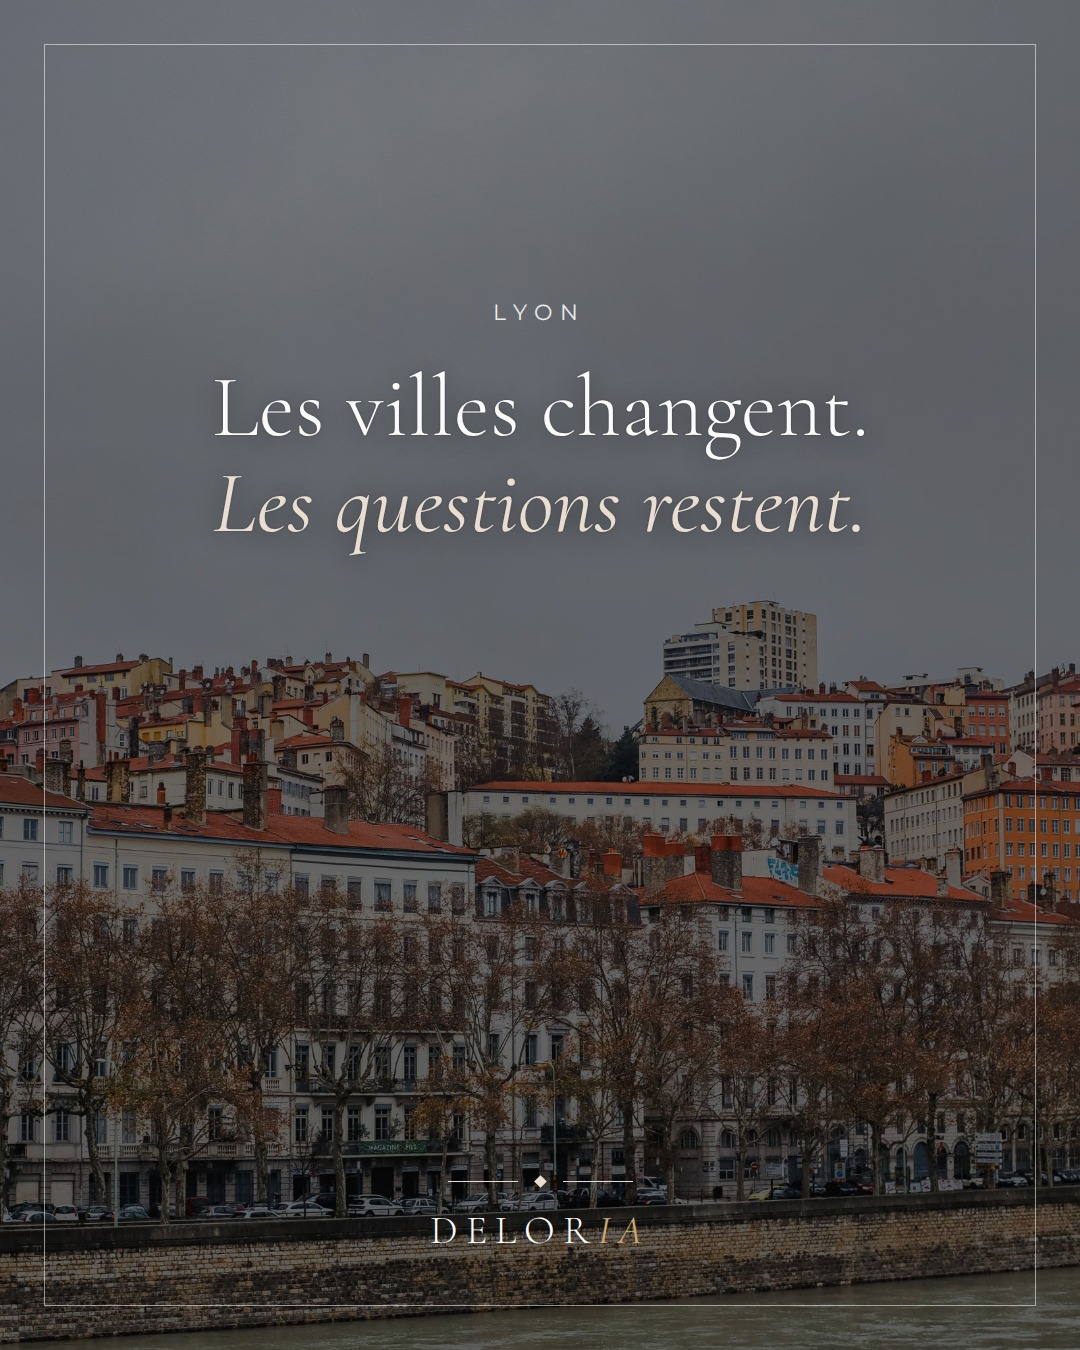
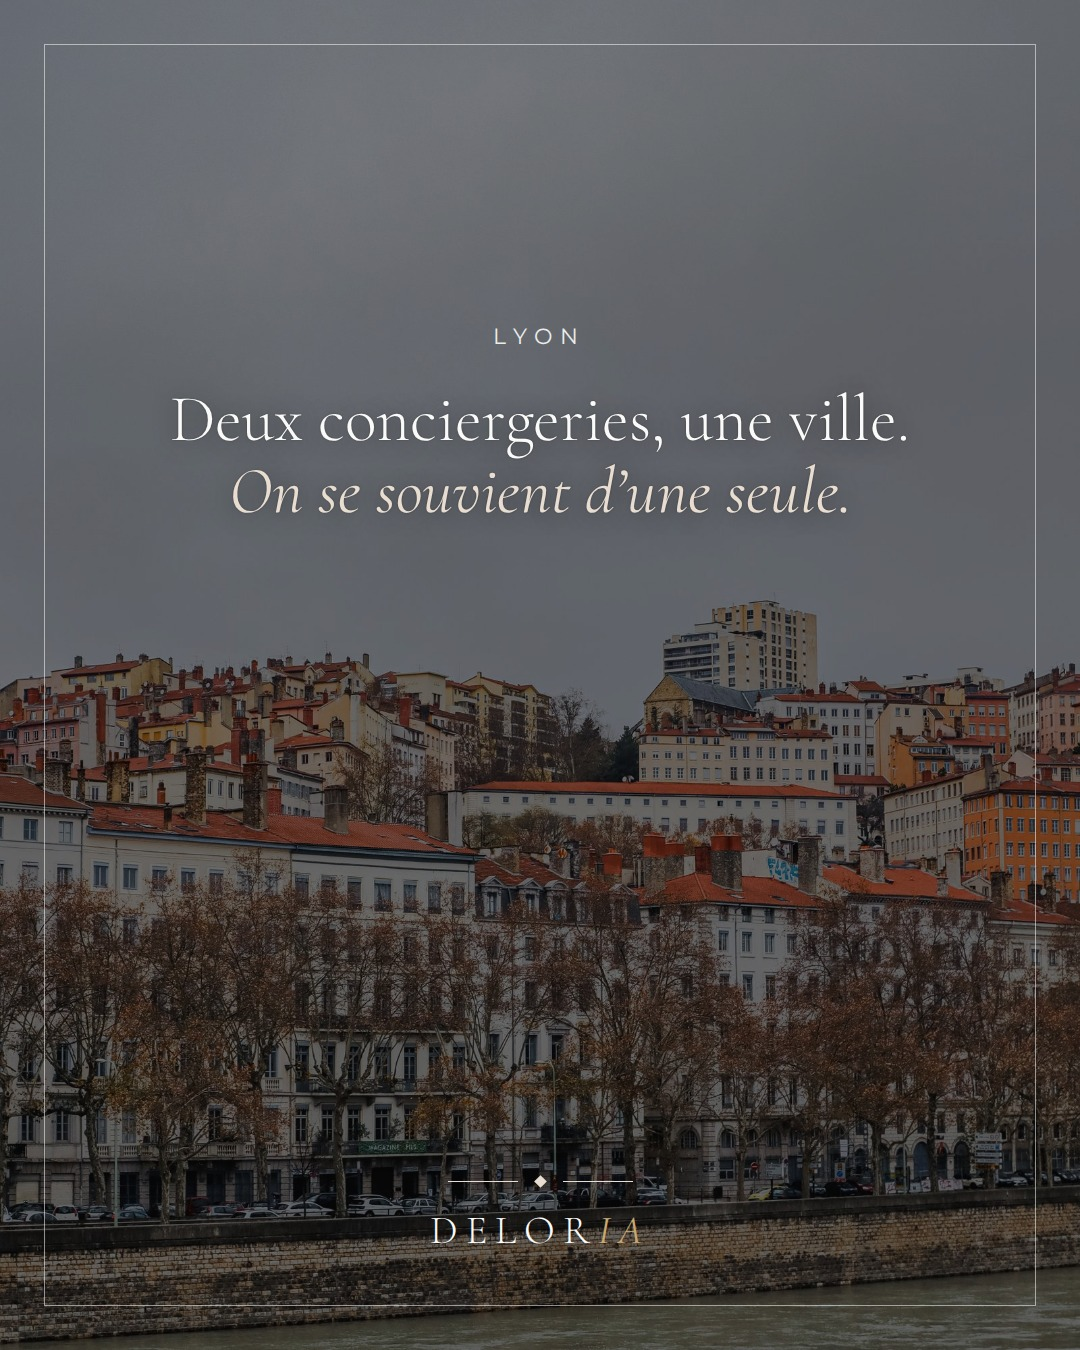
Fonds photo sur les gabarits unis, lot réécrit du 30/09 au 11/10
Claude-Session: https://claude.ai/code/session_01TujLWYW2PjtmBaj8Xy85aC

Changed region(s): [[0.1833, 0.28, 0.825, 0.4044], [0.4583, 0.2178, 0.55, 0.2489]]

diff --git a/calendrier/contenu.py b/calendrier/contenu.py
@@ -27,23 +27,25 @@ Ici, je partage ce que j'apprends sur le terrain : ce qui marche, ce qui casse, 
 
 {H_CONC} #etretat {H_NORM}"""),
 
-    dict(template="constat", label="Le quotidien d'une conciergerie",
-         texte="Un voyageur écrit à 22h43 pour savoir où se garer.\nQuelqu'un répond forcément.", chute="Aujourd'hui, c'est vous.",
-         legende=f"""Un voyageur qui cherche où se garer n'attend pas le lendemain. Il écrit maintenant, et il attend une réponse maintenant.
+    dict(template="constat", photo_fichier="astuce-rue#2", label="Le quotidien d'une conciergerie",
+         texte="22h43.\n« Je me gare où ? »", chute="Quelqu'un répond toujours.\nAujourd'hui, c'est vous.",
+         legende=f"""Le voyageur n'attend pas le lendemain. Il écrit maintenant, et il attend une réponse maintenant.
 
-Dans beaucoup de conciergeries, cette réponse part du téléphone personnel du gérant, entre deux autres choses. C'est ce quotidien que je veux alléger.
+Dans beaucoup de conciergeries, cette réponse part du téléphone personnel du gérant, en plein dîner.
+
+Ce n'est pas un problème d'organisation. C'est un problème de disponibilité. Et la disponibilité, ça se délègue.
 
 {H_CONC}"""),
 
     dict(template="terrain_photo", photo="details-telephone", cadrage="center 85%", label="Note de terrain",
-         titre="Airbnb refuse tout message qui contient *un lien.*",
-         texte="Un nom de site, une adresse e-mail, un numéro de téléphone : le message entier est bloqué. Le voyageur ne reçoit rien.",
-         chute="Ce qui répond à vos voyageurs doit le savoir.",
-         legende=f"""Airbnb bloque les messages qui contiennent une coordonnée, pour éviter qu'on sorte de la plateforme. Ce n'est pas seulement le lien qui saute : c'est tout le message.
+         titre="Un lien dans un message,\n*et Airbnb bloque tout.*",
+         texte="Un site, une adresse e-mail, un numéro : le message entier ne part pas. Un outil automatique n'en sait rien.",
+         chute="Le voyageur attend une réponse qui n'arrivera jamais.",
+         legende=f"""Je l'ai appris en conditions réelles. Une bonne réponse sur les pharmacies de garde, avec le nom d'un site. Airbnb a refusé le message entier. Le voyageur n'a rien reçu.
 
-Quand vous écrivez vous-même, l'application vous prévient. Un outil automatique, lui, peut ne jamais le savoir.
+Quand vous écrivez vous-même, l'application vous prévient. Un outil automatique, non.
 
-C'est pour ça que l'assistant que je configure n'écrit aucune coordonnée. Pour une adresse précise, il vous passe la main.
+Depuis, l'assistant que je configure n'écrit aucune coordonnée. Pour une adresse précise, il vous passe la main.
 
 {H_CONC}"""),
 
@@ -745,15 +747,17 @@ ASTUCE = "Astuce d'accueil"
 WEEKEND = [
     # 10 et 11 octobre
     dict(template="carte", photo_fichier="astuce-lampe#1", label=ASTUCE,
-         titre="Une lampe allumée *pour une arrivée de nuit.*",
-         texte="Un voyageur qui arrive tard cherche l'interrupteur dans le noir. Une lampe laissée allumée change la première impression.",
-         legende=f"""Nouvelle série du samedi : une astuce d'accueil simple, applicable dès ce week-end.
+         titre="Arrivée à 23h.\n*Où est l'interrupteur ?*",
+         texte="Laissez une lampe allumée pour les arrivées tardives. Ça ne coûte rien. Ça change la première minute.",
+         legende=f"""Nouvelle série du samedi : une astuce d'accueil par semaine, applicable dès ce week-end.
 
-La première minute dans un logement compte énormément. Arriver de nuit dans une pièce éclairée, c'est se sentir attendu.
+Arriver de nuit dans un logement inconnu, c'est chercher l'interrupteur à tâtons, les valises à la main. Arriver dans une pièce éclairée, c'est se sentir attendu.
 
 {H_ACC}"""),
-    dict(template="plein", photo="interieur-lit", phrase="Dimanche.\n*Le téléphone peut dormir aussi.*",
-         legende=f"""Bon dimanche à toutes les conciergeries.
+    dict(template="plein", photo="interieur-lit", voile=0.55, phrase="Dimanche.\n*Qui répond à vos voyageurs ?*",
+         legende=f"""Si la réponse est vous, ce n'est pas vraiment un dimanche.
+
+Bon dimanche à toutes les conciergeries.
 
 {H_CONC}"""),
 
@@ -1293,43 +1297,50 @@ Le test le plus simple : le réduire à la taille d'un ongle et voir ce qu'il en
 # Semaine d'ouverture, avant le lundi 5 octobre. Photos imposées, jamais utilisées ailleurs,
 # gabarits sans numérotation de série : le reste du calendrier n'est pas modifié.
 AVANT_PREMIERE = {
-    "2026-09-30": dict(template="constat", label="Identité visuelle",
-         texte="Un logo flou.\nTrois polices.\nDes couleurs qui changent\nd'un support à l'autre.",
-         chute="Vos clients le remarquent avant vous.",
-         legende=f"""Une identité visuelle cohérente ne se remarque pas. Une identité incohérente, si.
+    "2026-09-30": dict(template="constat", photo_fichier="secteur-artisan#6", label="Identité visuelle",
+         texte="Tout a changé\ndepuis vos débuts.", chute="Sauf votre logo.",
+         legende=f"""Vos clients, vos outils, votre niveau : tout a progressé. Le logo, lui, date souvent de la première semaine.
 
-Un logo net, deux typographies, quelques couleurs, et les mêmes règles partout : site, réseaux, devis, carte de visite. C'est ce qu'on appelle une charte graphique, et c'est souvent le premier chantier avant un site.
+Personne ne vous en parlera. Un client qui ne vous connaît pas encore compare quelques secondes, puis choisit.
+
+Une charte graphique, c'est la même image partout. La bonne.
 
 {CONTACT}
 
 {H_DESIGN}"""),
 
     "2026-10-02": dict(template="plein", photo_fichier="region-lyon#3", lieu="Lyon", decalage=-250,
-         phrase="Les villes changent.\n*Les questions restent.*",
-         legende=f"""Lyon, Biarritz, Annecy ou la côte normande : d'une conciergerie à l'autre, les voyageurs posent les mêmes questions. L'arrivée, le stationnement, le wifi, les commerces autour.
+         phrase="Deux conciergeries, une ville.\n*On se souvient d'une seule.*",
+         legende=f"""Même quartier, mêmes prestations, souvent le même prix. La différence se joue ailleurs.
 
-Ce qui change, ce sont les réponses. Chaque logement a les siennes, et c'est avec elles que je configure l'assistant.
+Une réponse qui arrive tout de suite. Un ton qui ressemble à une personne. Le détail prévu avant qu'on le demande.
+
+C'est là que naît le souvenir. Et l'avis qui va avec.
 
 {CONTACT}
 
 {H_CONC} #lyon"""),
 
     "2026-10-03": dict(template="plein", photo_fichier="details-linge#6", decalage=-420,
-         phrase="Samedi, jour de rotation.\n*Courage aux équipes.*",
-         legende=f"""Le samedi, les départs et les arrivées s'enchaînent. Le ménage, le linge, les vérifications, et les messages qui continuent d'arriver pendant ce temps.
+         phrase="Samedi, les draps changent.\n*Les questions, jamais.*",
+         legende=f"""Jour de rotation. Pendant que les équipes font les lits, les messages continuent d'arriver : l'heure d'arrivée, le parking, le code du wifi.
+
+Toujours les mêmes. C'est exactement ce qui se délègue.
 
 Courage à toutes les équipes sur le terrain aujourd'hui.
 
 {H_CONC}"""),
 
-    "2026-10-04": dict(template="service", label="DelorIA en bref",
-         titre="Vous rendre du temps,\n*sans perdre votre style.*",
-         points=["Répondre à vos voyageurs comme vous le feriez",
-                 "Publier sur vos réseaux sans y penser",
-                 "Créer un site et une identité à votre image"],
-         legende=f"""Pour ceux qui découvrent ce compte, voici ce que je fais.
+    "2026-10-04": dict(template="service", photo_fichier="details-carnet#6", label="DelorIA en bref",
+         titre="Automatiser\nce qui se répète.\n*Jamais ce qui vous distingue.*",
+         points=["Les réponses à vos voyageurs, dans leur langue",
+                 "Vos publications, prêtes des mois à l'avance",
+                 "Votre site et votre identité, sur mesure"],
+         legende=f"""Pour ceux qui découvrent ce compte.
 
-Pour les conciergeries, un assistant qui répond aux voyageurs avec les informations de chaque logement. Pour les entreprises et les indépendants, des publications préparées des mois à l'avance et publiées seules. Et pour tous, des sites et des identités visuelles sur mesure.
+Aux conciergeries, un assistant qui répond aux voyageurs avec les informations de chaque logement. Aux entreprises et aux indépendants, des publications prêtes des mois à l'avance. À tous, des sites et des identités visuelles sur mesure.
+
+Une règle pour tout : ce qui fait votre style ne s'automatise pas.
 
 {CONTACT}
 

diff --git a/templates/render.py b/templates/render.py
@@ -75,6 +75,20 @@ def ornament(color: str) -> str:
             f'<div class="l" style="background:var({color})"></div></div>')
 
 
+def fond_photo(p: dict, teinte: str) -> str:
+    """Photo pleine page en fond, derrière le texte. 'noir' : noir et blanc assombri.
+    'marron' : noir et blanc teinté marron de la charte. Aucun dégradé."""
+    if not p.get("photo"):
+        return ""
+    cadrage = p.get("cadrage", "center")
+    img = (f'<img src="{photo_uri(p)}" style="position:absolute; inset:0; width:100%; height:100%; z-index:-1; '
+           f'object-fit:cover; object-position:{cadrage}; filter:grayscale(1) contrast(1.06)">')
+    if teinte == "marron":
+        return (img + '<div style="position:absolute; inset:0; z-index:-1; background:#8A5A3C; mix-blend-mode:color"></div>'
+                f'<div style="position:absolute; inset:0; z-index:-1; background:rgba(59,35,20,{p.get("voile", 0.84)})"></div>')
+    return img + f'<div style="position:absolute; inset:0; z-index:-1; background:rgba(13,13,13,{p.get("voile", 0.6)})"></div>'
+
+
 def tpl_constat(p: dict) -> str:
     """Noir + crème + or. Un constat du quotidien, une chute en italique or."""
     return f"""
@@ -84,11 +98,11 @@ body {{ background: var(--noir); color: var(--blanc); }}
 .r1 {{ width: 980px; height: 980px; opacity: 0.07; }}
 .r2 {{ width: 700px; height: 700px; opacity: 0.11; }}
 .body {{ margin-top: auto; margin-bottom: auto; position: relative; }}
-.texte {{ font-family: 'Cormorant'; font-weight: 300; font-size: 76px; line-height: 1.12; letter-spacing: 0.01em; }}
-.chute {{ font-family: 'Cormorant'; font-style: italic; font-weight: 400; font-size: 84px; line-height: 1.1; color: var(--or); margin-top: 44px; }}
+.texte {{ font-family: 'Cormorant'; font-weight: 300; font-size: {92 if len(p['texte']) <= 40 else 76}px; line-height: 1.1; letter-spacing: 0.01em; }}
+.chute {{ font-family: 'Cormorant'; font-style: italic; font-weight: 400; font-size: {96 if len(p['chute']) <= 24 else 84}px; line-height: 1.08; color: var(--or); margin-top: 44px; }}
 </style>
 <div class="frame">
-  <div class="ring r1"></div><div class="ring r2"></div>
+  {fond_photo(p, "noir") or '<div class="ring r1"></div><div class="ring r2"></div>'}
   <div class="label" style="color:var(--or); position:relative">{esc(p['label'])}</div>
   <div class="body">
     <div class="texte">{esc(p['texte'])}</div>
@@ -143,6 +157,7 @@ body {{ background: var(--marron); color: var(--blanc); }}
 .item .d {{ flex: none; width: 10px; height: 10px; background: var(--or); transform: rotate(45deg) translateY(-6px); }}
 </style>
 <div class="frame">
+  {fond_photo(p, "marron")}
   <div class="label" style="color:var(--beige); opacity:.7">{esc(p['label'])}</div>
   <div class="titre">{esc(p['titre'])}</div>
   <div class="items">{items}</div>
